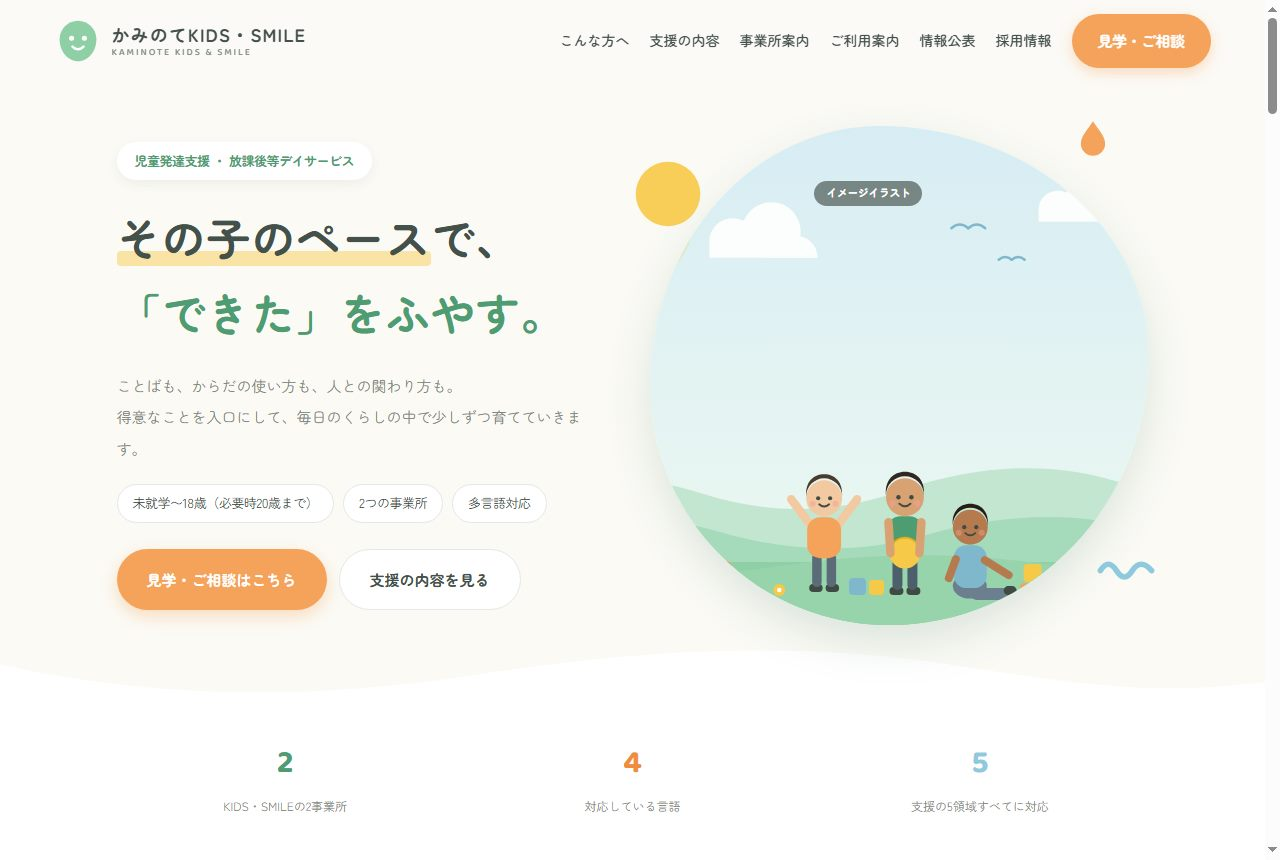
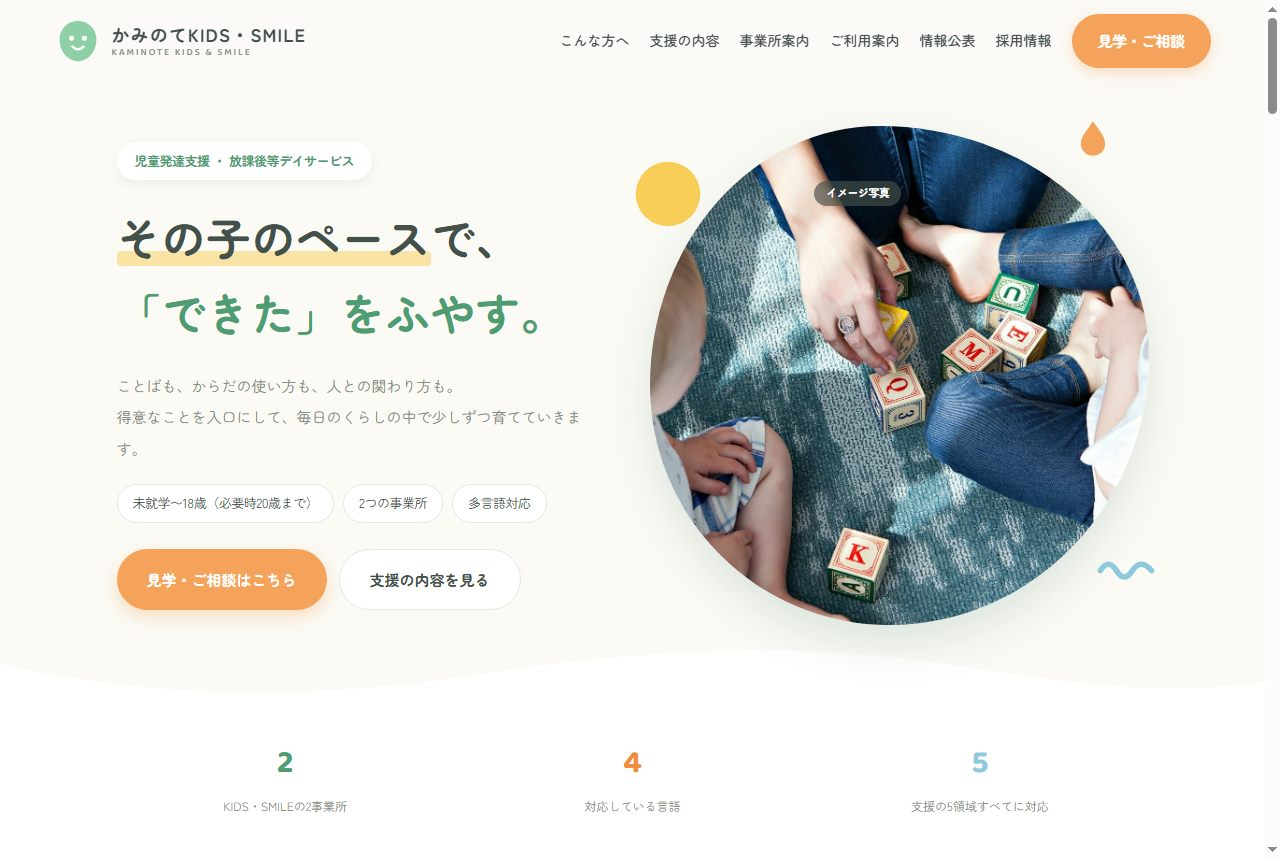
放課後等デイのトップが案ごとに別の写真になったことを反映する
プレビュー3枚を差し替え、イラスト前提の説明をすべて写真の記述に戻した。
「トップの絵はこちらで描き起こしたもの／イラストなら素材の使用料は
かからない」の段落は、写真に戻したので落とし、代わりに3案それぞれ別の
写真であること（案ごとの見え方の違いが出やすいため）を書いた。

案A・案Bの説明には、その案がどんな写真と相性がいいかを1文ずつ足した
（案A＝空の広い写真、案B＝手元を写した近い写真）。案Cには「よいお写真が
そろっているかで印象が変わる」を戻した。

Changed region(s): [[0.5, 0.1209, 0.9062, 0.7256]]

diff --git a/design.html b/design.html
@@ -612,10 +612,8 @@
       <strong>支援プログラム・自己評価・保護者評価の公表欄</strong>も3案とも入れてあります。
       保育園サイトと同じ案（AならA）でそろえると、2つのサイトが並んだときにいちばん統一して見えます。</p>
 
-      <p style="margin:0 0 1.4rem">トップの絵は<strong>こちらで描き起こしたイラスト</strong>です（3案とも同じもの）。
-      お子さまの様子が伝わる写真は撮影しないと用意できないため、それまでのあいだトップが寂しくならないようにしています。
-      <strong>撮影後に写真へ差し替えることも、このままイラストで進めることもできます。</strong>
-      イラストのままにする場合、素材の使用料はかかりません。</p>
+      <p style="margin:0 0 1.4rem">トップの写真は<strong>3案それぞれ別のもの</strong>にしてあります。案ごとの見え方の違いが出やすいためです。
+      いずれも取材時に撮影したお写真へ差し替えます。</p>
 
       <div class="mock">
         <div class="mock-head">
@@ -625,7 +623,7 @@
         <a class="shot" href="https://k-matsumoto527.github.io/kaminote-day-design/plan-a.html" target="_blank" rel="noopener">
           <img src="img/preview-day-a.jpg" alt="放課後等デイサイト トップページ デザイン案A" width="1280" height="860" loading="lazy">
         </a>
-        <p class="mock-note">白いヘッダーにアイコン付きのメニューを並べ、その下の大きなイラストに明朝体の見出しを重ねました。パステルグリーンに卵色・空色を少しずつ添えています。保育園サイトの案Aと対になる作りです。</p>
+        <p class="mock-note">白いヘッダーにアイコン付きのメニューを並べ、その下の大きな写真に明朝体の見出しを重ねました。空の広い写真を選び、その上に文字が乗るようにしています。保育園サイトの案Aと対になる作りです。</p>
         <a class="open-btn" href="https://k-matsumoto527.github.io/kaminote-day-design/plan-a.html" target="_blank" rel="noopener">実物を見る</a>
         <div class="open-url">https://k-matsumoto527.github.io/kaminote-day-design/plan-a.html</div>
       </div>
@@ -638,7 +636,7 @@
         <a class="shot" href="https://k-matsumoto527.github.io/kaminote-day-design/plan-b.html" target="_blank" rel="noopener">
           <img src="img/preview-day-b.jpg" alt="放課後等デイサイト トップページ デザイン案B" width="1280" height="860" loading="lazy">
         </a>
-        <p class="mock-note">イラストをまるく切り抜き、区切りを波線にした案です。丸みのある書体で、<strong>3案のなかでいちばん親しみやすい</strong>印象になります。はじめてご覧になる保護者の方に、やさしい第一印象を持ってもらいたい場合に向いています。</p>
+        <p class="mock-note">写真をまるく切り抜き、区切りを波線にした案です。丸みのある書体で、<strong>3案のなかでいちばん親しみやすい</strong>印象になります。まるく切り抜くので、手元のようすを写した近い写真がよく合います。はじめてご覧になる保護者の方に、やさしい第一印象を持ってもらいたい場合に向いています。</p>
         <a class="open-btn" href="https://k-matsumoto527.github.io/kaminote-day-design/plan-b.html" target="_blank" rel="noopener">実物を見る</a>
         <div class="open-url">https://k-matsumoto527.github.io/kaminote-day-design/plan-b.html</div>
       </div>
@@ -651,7 +649,7 @@
         <a class="shot" href="https://k-matsumoto527.github.io/kaminote-day-design/plan-c.html" target="_blank" rel="noopener">
           <img src="img/preview-day-c.jpg" alt="放課後等デイサイト トップページ デザイン案C" width="1280" height="860" loading="lazy">
         </a>
-        <p class="mock-note">白いヘッダーを置かず、開いた瞬間は<strong>絵だけが画面いっぱい</strong>に広がる案です。事業所名を中央に、メニューを左右に振り分け、事業所の言葉は<strong>縦書き</strong>で置きました。文字を白で置くぶん絵を暗く沈ませるので、<strong>3案のなかではいちばん落ち着いた印象</strong>になります。</p>
+        <p class="mock-note">白いヘッダーを置かず、開いた瞬間は<strong>写真だけが画面いっぱい</strong>に広がる案です。事業所名を中央に、メニューを左右に振り分け、事業所の言葉は<strong>縦書き</strong>で置きました。文字を白で置くぶん写真を暗く沈ませるので、<strong>3案のなかではいちばん落ち着いた印象</strong>になります。そのぶん、よいお写真がそろっているかで印象が変わる案でもあります。</p>
         <a class="open-btn" href="https://k-matsumoto527.github.io/kaminote-day-design/plan-c.html" target="_blank" rel="noopener">実物を見る</a>
         <div class="open-url">https://k-matsumoto527.github.io/kaminote-day-design/plan-c.html</div>
       </div>

diff --git a/src/design-kaminote.html b/src/design-kaminote.html
@@ -589,10 +589,8 @@
       <strong>支援プログラム・自己評価・保護者評価の公表欄</strong>も3案とも入れてあります。
       保育園サイトと同じ案（AならA）でそろえると、2つのサイトが並んだときにいちばん統一して見えます。</p>
 
-      <p style="margin:0 0 1.4rem">トップの絵は<strong>こちらで描き起こしたイラスト</strong>です（3案とも同じもの）。
-      お子さまの様子が伝わる写真は撮影しないと用意できないため、それまでのあいだトップが寂しくならないようにしています。
-      <strong>撮影後に写真へ差し替えることも、このままイラストで進めることもできます。</strong>
-      イラストのままにする場合、素材の使用料はかかりません。</p>
+      <p style="margin:0 0 1.4rem">トップの写真は<strong>3案それぞれ別のもの</strong>にしてあります。案ごとの見え方の違いが出やすいためです。
+      いずれも取材時に撮影したお写真へ差し替えます。</p>
 
       <div class="mock">
         <div class="mock-head">
@@ -602,7 +600,7 @@
         <a class="shot" href="https://k-matsumoto527.github.io/kaminote-day-design/plan-a.html" target="_blank" rel="noopener">
           <img src="img/preview-day-a.jpg" alt="放課後等デイサイト トップページ デザイン案A" width="1280" height="860" loading="lazy">
         </a>
-        <p class="mock-note">白いヘッダーにアイコン付きのメニューを並べ、その下の大きなイラストに明朝体の見出しを重ねました。パステルグリーンに卵色・空色を少しずつ添えています。保育園サイトの案Aと対になる作りです。</p>
+        <p class="mock-note">白いヘッダーにアイコン付きのメニューを並べ、その下の大きな写真に明朝体の見出しを重ねました。空の広い写真を選び、その上に文字が乗るようにしています。保育園サイトの案Aと対になる作りです。</p>
         <a class="open-btn" href="https://k-matsumoto527.github.io/kaminote-day-design/plan-a.html" target="_blank" rel="noopener">実物を見る</a>
         <div class="open-url">https://k-matsumoto527.github.io/kaminote-day-design/plan-a.html</div>
       </div>
@@ -615,7 +613,7 @@
         <a class="shot" href="https://k-matsumoto527.github.io/kaminote-day-design/plan-b.html" target="_blank" rel="noopener">
           <img src="img/preview-day-b.jpg" alt="放課後等デイサイト トップページ デザイン案B" width="1280" height="860" loading="lazy">
         </a>
-        <p class="mock-note">イラストをまるく切り抜き、区切りを波線にした案です。丸みのある書体で、<strong>3案のなかでいちばん親しみやすい</strong>印象になります。はじめてご覧になる保護者の方に、やさしい第一印象を持ってもらいたい場合に向いています。</p>
+        <p class="mock-note">写真をまるく切り抜き、区切りを波線にした案です。丸みのある書体で、<strong>3案のなかでいちばん親しみやすい</strong>印象になります。まるく切り抜くので、手元のようすを写した近い写真がよく合います。はじめてご覧になる保護者の方に、やさしい第一印象を持ってもらいたい場合に向いています。</p>
         <a class="open-btn" href="https://k-matsumoto527.github.io/kaminote-day-design/plan-b.html" target="_blank" rel="noopener">実物を見る</a>
         <div class="open-url">https://k-matsumoto527.github.io/kaminote-day-design/plan-b.html</div>
       </div>
@@ -628,7 +626,7 @@
         <a class="shot" href="https://k-matsumoto527.github.io/kaminote-day-design/plan-c.html" target="_blank" rel="noopener">
           <img src="img/preview-day-c.jpg" alt="放課後等デイサイト トップページ デザイン案C" width="1280" height="860" loading="lazy">
         </a>
-        <p class="mock-note">白いヘッダーを置かず、開いた瞬間は<strong>絵だけが画面いっぱい</strong>に広がる案です。事業所名を中央に、メニューを左右に振り分け、事業所の言葉は<strong>縦書き</strong>で置きました。文字を白で置くぶん絵を暗く沈ませるので、<strong>3案のなかではいちばん落ち着いた印象</strong>になります。</p>
+        <p class="mock-note">白いヘッダーを置かず、開いた瞬間は<strong>写真だけが画面いっぱい</strong>に広がる案です。事業所名を中央に、メニューを左右に振り分け、事業所の言葉は<strong>縦書き</strong>で置きました。文字を白で置くぶん写真を暗く沈ませるので、<strong>3案のなかではいちばん落ち着いた印象</strong>になります。そのぶん、よいお写真がそろっているかで印象が変わる案でもあります。</p>
         <a class="open-btn" href="https://k-matsumoto527.github.io/kaminote-day-design/plan-c.html" target="_blank" rel="noopener">実物を見る</a>
         <div class="open-url">https://k-matsumoto527.github.io/kaminote-day-design/plan-c.html</div>
       </div>
